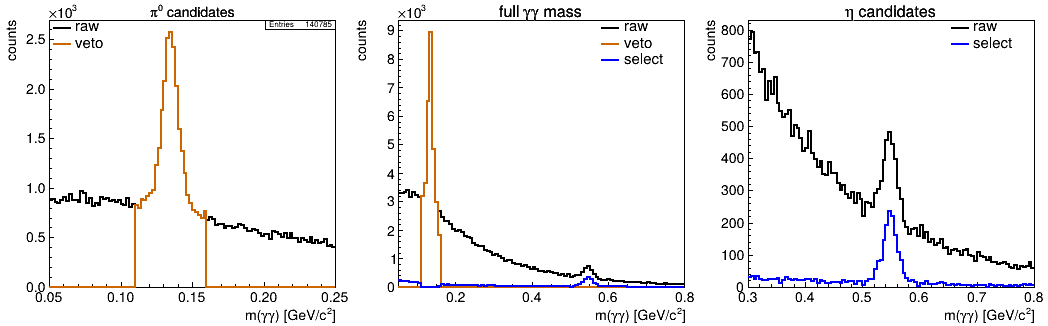
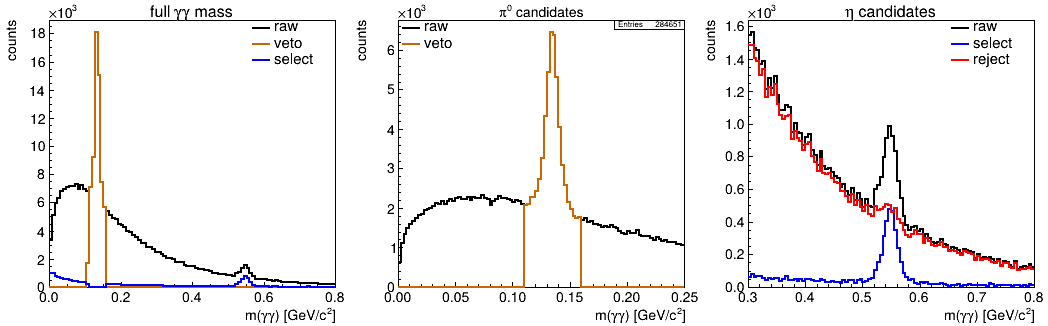
Update doc

diff --git a/doc/ConfigurationSetup.md b/doc/ConfigurationSetup.md
@@ -46,6 +46,7 @@ License: Creative Commons Attribution-NonCommercial-ShareAlike 4.0 International
      - [Extra Variables](#extra-variables)
    + [HIST - Live Histograms](#hist---live-histograms)
      - [Overlaying Histograms](#overlaying-histograms)
+     - [Lorentz Vector Expansion](#lorentz-vector-expansion)
    + [Using Variables](#using-variables)
 * [Running on Virgo](Virgo.md)
 * [Tools](Tools.md)
@@ -672,8 +673,14 @@ The available quantities to be computed (currently) are:
 | Quantity | Description                                                           |
 |----------|-----------------------------------------------------------------------|
 | `p4`     | full 4-vector information (suffixes: `px,py,pz,e,tht,ctht,phi,pt, m`) |
+| `p4f`    | fitted full 4-vector information (suffixes as above)                  |
+| `p4t`    | true full 4-vector information (suffixes as above)                    |
 | `m`      | invariant mass                                                        |
+| `mf`     | fitted invariant mass                                                 |
+| `mt`     | true invariant mass                                                   |
 | `m2`     | squared invariant mass (useful for Dalitz plots)                      |
+| `m2f`    | fitted squared invariant mass (useful for Dalitz plots)               |
+| `m2t`    | true squared invariant mass (useful for Dalitz plots)                 |
 | `p`      | momentum                                                              |
 | `pt`     | transverse momentum                                                   |
 | `tht`    | polar angle                                                           |
@@ -699,11 +706,11 @@ The available quantities to be computed (currently) are:
 | Expression                             | Meaning                                                         |
 |----------------------------------------|-----------------------------------------------------------------|
 | `m0120 = m(xd0+xd1+xd2d0)`             | Invariant mass of particles `xd0, xd1, xd2d0`                   |
-| `mm14 = m(x-xd1-x4)`                   | Recoil/missing mass for particles `xd1` and `xd4`               |
+| `fmm14 = mf(beam-xd1-x4)`              | Fitted recoil/missing mass for particles `xd1` and `xd4`        |
 | `m2_14 = m2([1]+[4]), m2_14 = m2(1+5)` | Dalitz plot vars. of particles `[1],[4],[5]` for MC tree`nmc`   |
 | `m12pik = {m(xd1+xd2;pi,k)}`           | Inv. mass of `xd1` and `xd2` with pion and kaon mass hypothesis |
 | `mm01p = m(beam-01;,p)`                | Recoil mass of `xd0d1` with `p` hypothesis, `beam` unchanged    |
-| `ang24 = m(2,4)`                       | Opening angle of particles `xd2` and `xd4`                      |
+| `ang24 = mt(2,4)`                      | Original true opening angle of particles `xd2` and `xd4`        |
 
 **These declarations need to be defined by setting the parameter `xvars(<tree name>) = <quantity list>` for individual `TTree`'s inside a `REC` statement.** 
 
@@ -800,6 +807,90 @@ HIST ;;  cut=abs(xtrpdg)==321  : leg = kaon
 HIST ;;  cut=abs(xtrpdg)==2212 : leg = proton
 ```
 Only the first histogram has a lengthy definition, while for the other particle types just the new cut and legend entry is set. 
+
+
+### Lorentz Vector Expansion
+[Back to TOC](#table-of-contents)
+
+In addition to the extra variables being defined in `REC` and added as real branches to the tree, there is another way to use 4-vector based quantities in live histograming, replacing expressions like  
+```
+sqrt((sqrt(0.0194798+xd1d0p^2)+sqrt(0.0194798+xd1d1p^2)+xd0e)^2-(xd1d0px+xd1d1px+xd0px)^2-(xd1d0py+xd1d1py+xd0py)^2-(xd1d0pz+xd1d1pz+xd0pz)^2)
+``` 
+by the much simpler statement `m(xd1d0+xd1d1;pi,pi)`. Similar to the definition above the available quantities to be transformed are
+
+| Variable | Quantity                      | Formula                         |
+|----------|-------------------------------|---------------------------------|
+| `m`      | invariant mass                | sqrt(E² - px² - py² - pz²)      |  
+| `m2`     | squared invariant mass        | (E² - px² - py² - pz²)          | 
+| `p`      | momentum                      | sqrt(px² + py² + pz²)           |
+| `pt`     | transverse momentum           | sqrt(px² + py²)                 |
+| `tht`    | polar angle                   | atan2(sqrt(px²+py²), pz)        |
+| `oang`   | opening angle of 2 particles  | acos((p1·p2)/(abs(p1)·abs(p2))) |
+| `coang`  | cos of opening angle          | ((p1·p2)/(abs(p1)·abs(p2)))     |
+
+In order to switch on the replacement, the parameter setting `xp=1` or simpler `xp` must appear somewhere in the `HIST` definition. With this setting, the short-cuts can be used in parameters `var` and `cut`.
+
+**Syntax rules** for the expressions are similar to the `xvars` setting in `REC`:
+* `var(list[;hyp])`
+  + `var` = variable to be computed
+  + `list` = branch/particle pre-/postfixes
+  + `hyp` = optional list of numbers/names for particle hypothesis 
+* Items in `list`
+  + are particle prefixes from reco trees (`x, xd0, xd1d2d1`, etc) or array positions in `nmc` (`[0],[1],[2]`, etc) 
+  + must be separated with either `+`, `-` or `,` (`oang`, `coang` only)
+* Items in `hyp` 
+  + must be `,` separated and matching the position of items in `list`; omitted places (like in `pi,,k`) will not be set
+  + can be `e, mu, pi, k, p` or arbitrary float numbers `0.134, 0.98, ...` specifying the mass in GeV/c² 
+
+**Examples:** (somewhere in the `HIST` declaration)
+
+| Expression                         | Meaning                                                           |
+|------------------------------------|-------------------------------------------------------------------|
+| `xp : var=m(xd0+xd1+xd2d0)`        | Invariant mass of particles `xd0, xd1, xd2d0`                     |
+| `xp : var=m(x-xd1-x4)`             | Recoil/missing mass for particles `xd1` and `xd4`                 |
+| `xp : var=m2([1]+[4]),m2([1]+[5])` | Dalitz plot of particles `[1],[4],[5]` for MC tree`nmc`           |
+| `xp : var=m(xd1+xd2;pi,k)`         | Inv. mass of `xd1` and `xd2` with pion and kaon mass hypothesis   |
+| `xp : var=m(beam-xd0d1;,p)`        | Recoil mass of `xd0d1` with `p` hypothesis, `beam` mass unchanged |
+
+Another handy feature is, that meaningful aliases corresponding to the complicated forms are stored in the output trees as well, that can be used for further online analysis. For the Dalitz plot example (line 3 in the table) above, the tree `nmc` stored in the output file shows:
+```
+root [0] nmc->GetListOfAliases()->Print()
+Collection name='TList', class='TList', size=2
+ OBJ: TNamed    m2_14   ((e[1]+e[4])^2-(px[1]+px[4])^2-(py[1]+py[4])^2-(pz[1]+pz[4])^2)
+ OBJ: TNamed    m2_15   ((e[1]+e[5])^2-(px[1]+px[5])^2-(py[1]+py[5])^2-(pz[1]+pz[5])^2)
+``` 
+
+The alias name is based on the orignal expression in the way, that all characters/sequences in {`+`, `)`, `[`, `]`, `xd`, `,`, `;`} are removed, and {`(`, `-`} are replaced by `_`.
+
+The Lorentz vector transformation is done by the function `ExpandFml(TStr expr, TTree *t=nullptr., TStr ext)` (or shorter `XP(...)`) in `src/HepFastAux.C` and can be used independently. When `t` is specified, the aliases are added to `t` and the returned expression uses them. Otherwise the long from is returned. The sequence `ext` is a comma separated list of 4-vector extensions (default:`e,px,py,pz,p`). 
+
+Try with loading `HepFastAux.C` and the output of `cfg/demo_jpsi.cfg`.
+```
+root -l src/HepFastAux.C ana_demo_jpsi.root
+...
+root [0] .ls
+TFile**         ana_demo_jpsi.root
+ TFile*         ana_demo_jpsi.root
+  KEY: TTree    nmc;1   MC truth list
+  KEY: TTree    ntp0;1  trk [REC: ]
+  KEY: TTree    ntp2;1  J/psi [REC: J/psi -> mu+ mu-]
+  KEY: TTree    ntp3;1  beams [REC: beams -> J/psi pi+ pi-]
+
+root [0] XP("m2(xd1+xd2)")
+(TStr) "((xd1e+xd2e)^2-(xd1px+xd2px)^2-(xd1py+xd2py)^2-(xd1pz+xd2pz)^2)"[63]
+
+root [1] XP("m2(xd1+xd2)", ntp3)
+(TStr) "m2_12"[5]
+
+root [2] ntp3->Draw("m2_12","chan==1")
+(long long) 1159
+
+root [3] XP("m(p1+p2)",0,".E(),.Px(),.Py(),.Pz(),.P()")
+(TStr) "sqrt((p1.E()+p2.E())^2-(p1.Px()+p2.Px())^2-(p1.Py()+p2.Py())^2-(p1.Pz()+p2.Pz())^2)"[83]
+```
+
+If enabled for a histogram with `xp`, the 4-vector expansion can also be used in `cut` (e.g. `HIST ;; cut = m([0]+[1])>0.5 : ..`). In order to use combined variables in `precut` (e.g. `REC ;; store(...) = precut(m(xd0+xd1)>1.35)`), the parameter `xvars` must be used as described in section [REC - Extra Variables](#extra-variables) above.
+
 
 ## Using Variables
 Beside setting the available parameters for `OPT`, it is possible to use parameters with arbitrary names starting with `$` as variables, which later can be used in the rest of the configuration file and are globally replaced. This feature is very useful if (part of) the simulation setup should be controlled dynamically by command line parameters. All variables must be set either in an `OPT` statement or within the additional option string being the third parameter of the steering macro `HepFastSim.C` (see [Running the Simulation](#running-the-simulation)). 

diff --git a/doc/Demos.md b/doc/Demos.md
@@ -363,10 +363,10 @@ HIST ;;  tree=ntp0 : var=xtht*57.3 : hist=0,90 : title=rec. \theta;\theta [deg]
 ## List Veto Selection
 [Back to TOC](#table-of-contents)
 
-As described in the section [Configuration Setup - REC - Selection](ConfigurationSetup.md#selection) it is possible to apply so-called list veto selection. This means, that particles appearing as in a certain list are rejected from another list. A classical example is a `pi0` veto for the reconstruction of the decay `eta -> gamma gamma`. The following file shows an example.
+As described in the section [Configuration Setup - REC - Selection](ConfigurationSetup.md#selection) it is possible to apply so-called list veto selection. This means, that particles appearing as in a certain list are rejected from another list. A classical example is a pi0 veto for the reconstruction of the decay eta -> gamma gamma. The following file shows an example.
 ```
 01: # ===== Overall options ===== 
-02: OPT  ;;  nmc=1 : rndseed=123 : verbose=1 : hconf=350,3 : legtxt=0.05
+02: OPT  ;;  nmc=1 : rndseed=123 : verbose=1 : hconf=350,4 : legtxt=0.05 
 03: 
 04: # ===== Generators ===== 
 05: GEN  ;;  phsp : ecm=4.6, 0.00965 : reaction=anti-p-,p+ : fixtarget 
@@ -377,36 +377,39 @@ As described in the section [Configuration Setup - REC - Selection](Configuratio
 10: INC  ;;  cfg/det_panda.cfg
 11: 
 12: # ===== Trees/Reco ===== 
-13: REC  ;;  dec= pi0 -> gamma gamma                    : store(pi0,ntp0) = evt,cand 
+13: REC  ;;  dec= pi0 -> gamma gamma :                  : store(pi0,ntp0) = evt,cand 
 14: REC  ;;  dec= pi0 -> gamma gamma : m(pi0)=0.11,0.16 : store(pi0,ntp1) = evt,cand 
 15: REC  ;;  dec= eta -> gamma gamma :                  : store(eta,ntp2) = evt,cand
 16: REC  ;;  dec= eta -> gamma gamma : veto(eta)=pi0    : store(eta,ntp3) = evt,cand
-17: 
-18: # ===== Histograms ===== 
-19: HIST ;;  tree=ntp0 : hist=0.05,0.25 : leg=raw : divx=505 : ...
-20:          title=\pi^{0} candidates;m(\gamma\gamma) [GeV/c^{2}]
-21: HIST ;;  tree=ntp1 : hist=0.05,0.25 : leg=veto : opt=same
-22: 
-23: HIST ;;  tree=ntp2 : leg=raw    : hist=0.05,0.80 : divx=505 : legpos=tr : nostat : ...
-24:          title=full \gamma\gamma mass;m(\gamma\gamma) [GeV/c^{2}]
-25: HIST ;;  tree=ntp1 : leg=veto   : hist=0.05,0.80  : opt=same
-26: HIST ;;  tree=ntp3 : leg=select : hist=0.05,0.80  : opt=same
-27: 
-28: HIST ;;  tree=ntp2 : leg=raw    : hist=0.3,0.80 : divx=505 : legpos=tr : nostat : ...
-29:          title=\eta candidates;m(\gamma\gamma) [GeV/c^{2}]
-30: HIST ;;  tree=ntp3 : leg=select : hist=0.3,0.80  : opt=same : color=4
+17: REC  ;;  dec= eta -> gamma gamma : !veto(eta)=pi0   : store(eta,ntp4) = evt,cand
+18: 
+19: # ===== Histograms ===== 
+20: HIST ;;  tree=ntp2 : leg=raw    : hist=0.0,0.8 : divx=505 : legpos=tr : nostat : ...
+21:          title=full \gamma\gamma mass;m(\gamma\gamma) [GeV/c^{2}]
+22: HIST ;;  tree=ntp1 : leg=veto   : hist=0.0,0.8  : opt=same
+23: HIST ;;  tree=ntp3 : leg=select : hist=0.0,0.8  : opt=same
+24: 
+25: HIST ;;  tree=ntp0 : hist=0.0,0.25 : leg=raw : divx=505 : ...
+26:          title=\pi^{0} candidates;m(\gamma\gamma) [GeV/c^{2}]
+27: HIST ;;  tree=ntp1 : hist=0.0,0.25 : leg=veto : opt=same
+28: 
+29: HIST ;;  tree=ntp2 : leg=raw    : hist=0.3,0.8 : divx=505 : legpos=tr : nostat : ...
+30:          title=\eta candidates;m(\gamma\gamma) [GeV/c^{2}]
+31: HIST ;;  tree=ntp3 : leg=select : hist=0.3,0.8  : opt=same : color=4
+32: HIST ;;  tree=ntp4 : leg=reject : hist=0.3,0.8  : opt=same : color=2
 ```
 _Explanation:_
 * (02) : Overall options
 * (05-07) : Setting up generator with **signal eta -> gamma gamma** and **generic background**
 * (10) : Use PANDA detector setup for reconstruction
-* (13) : Reconstruct **pi0 -> gamma gamma w/o mass cut** for plotting
+* (13) : Reconstruct **pi0 -> gamma gamma raw** spectrum
 * (14) : Reconstruct **pi0 -> gamma gamma with mass cut** for applying **veto**
-* (15) : Reconstruct **eta -> gamma gamma w/o veto selection** for comparison
+* (15) : Reconstruct **eta -> gamma gamma raw** spectrum for comparison
 * (16) : Reconstruct **eta -> gamma gamma with veto selection** 
-* (19-21) : Histogram of 2 gamma mass in **pi0 mass region** showing full spectrum and veto cut
-* (23-26) : Histogram of 2 gamma mass in **full mass region** showing raw spectrum, veto cut and selected candidates
-* (28-30) : Histogram of 2 gamma mass in **eta mass region** with **background suppression by pi0 veto**
+* (17) : Reconstruct **eta -> gamma gamma with anti-veto selection** 
+* (20-23) : Histogram of 2-gamma mass in **full mass region** showing raw spectrum, veto cut and selected candidates
+* (25-27) : Histogram of 2-gamma mass in **pi0 mass region** showing full spectrum and veto cut
+* (29-32) : Histogram of 2-gamma mass in **eta mass region** with **background suppression by pi0 veto**
   
 ![(Veto demo plot)](demo_veto.png)
 
